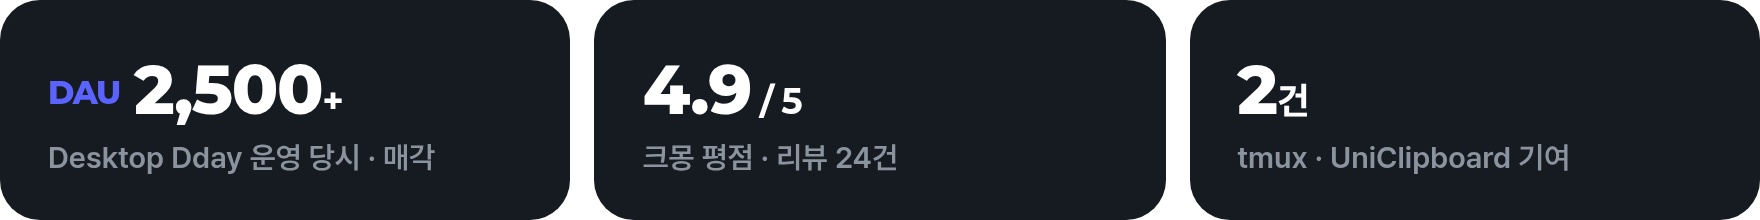
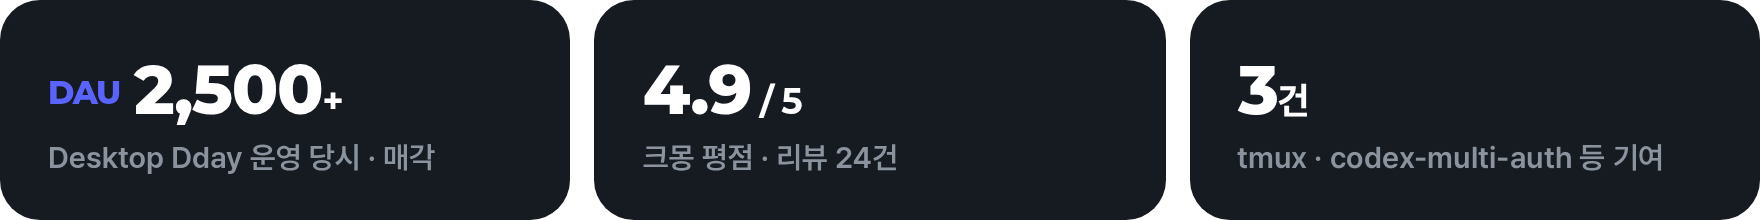
docs: codex-multi-auth 기여 추가, 오픈소스 기여 3건으로 갱신

diff --git a/README.md b/README.md
@@ -1,6 +1,6 @@
 <p><picture><source media="(prefers-color-scheme: dark)" srcset="assets/logo-dark.png"><img src="assets/logo-light.png" alt="naldadev" height="32"></picture></p>
 
-<p><picture><source media="(prefers-color-scheme: dark)" srcset="assets/nums-dark.png?v=4"><img src="assets/nums-light.png?v=4" alt="DAU 2,500+ (Desktop Dday 운영 당시, 매각) · 크몽 평점 4.9/5, 리뷰 24건 · 오픈소스 기여 2건" width="100%"></picture></p>
+<p><picture><source media="(prefers-color-scheme: dark)" srcset="assets/nums-dark.png?v=5"><img src="assets/nums-light.png?v=5" alt="DAU 2,500+ (Desktop Dday 운영 당시, 매각) · 크몽 평점 4.9/5, 리뷰 24건 · 오픈소스 기여 3건" width="100%"></picture></p>
 
 - **[포트폴리오 보기](https://naldadev.com/portfolio/)** `naldadev.com`
 - **[seongjae@naldadev.com](mailto:seongjae@naldadev.com)** `메일`
@@ -16,6 +16,9 @@
 
 ### 오픈소스
 
+쓰다가 막힌 버그는 원인까지 찾아서 직접 고쳐요.
+
+- **[codex-multi-auth #727](https://github.com/ndycode/codex-multi-auth/pull/727)** `Merged`<br>실행할 때마다 메모리가 8.5GB까지 치솟아 서버가 멈추던 문제를 프로파일링으로 찾아 고쳤어요.
 - **[tmux #5409](https://github.com/tmux/tmux/pull/5409)** `upstream 반영`<br>화면 밖 pane에서 CPU 100% 무한 루프가 되던 문제를 찾아 고쳤어요.
 - **[UniClipboard #1436](https://github.com/UniClipboard/UniClipboard/pull/1436)** `Merged`<br>CLI에서 이미지 조회가 실패하던 버그를 고치고 회귀 테스트를 더했어요.
 
